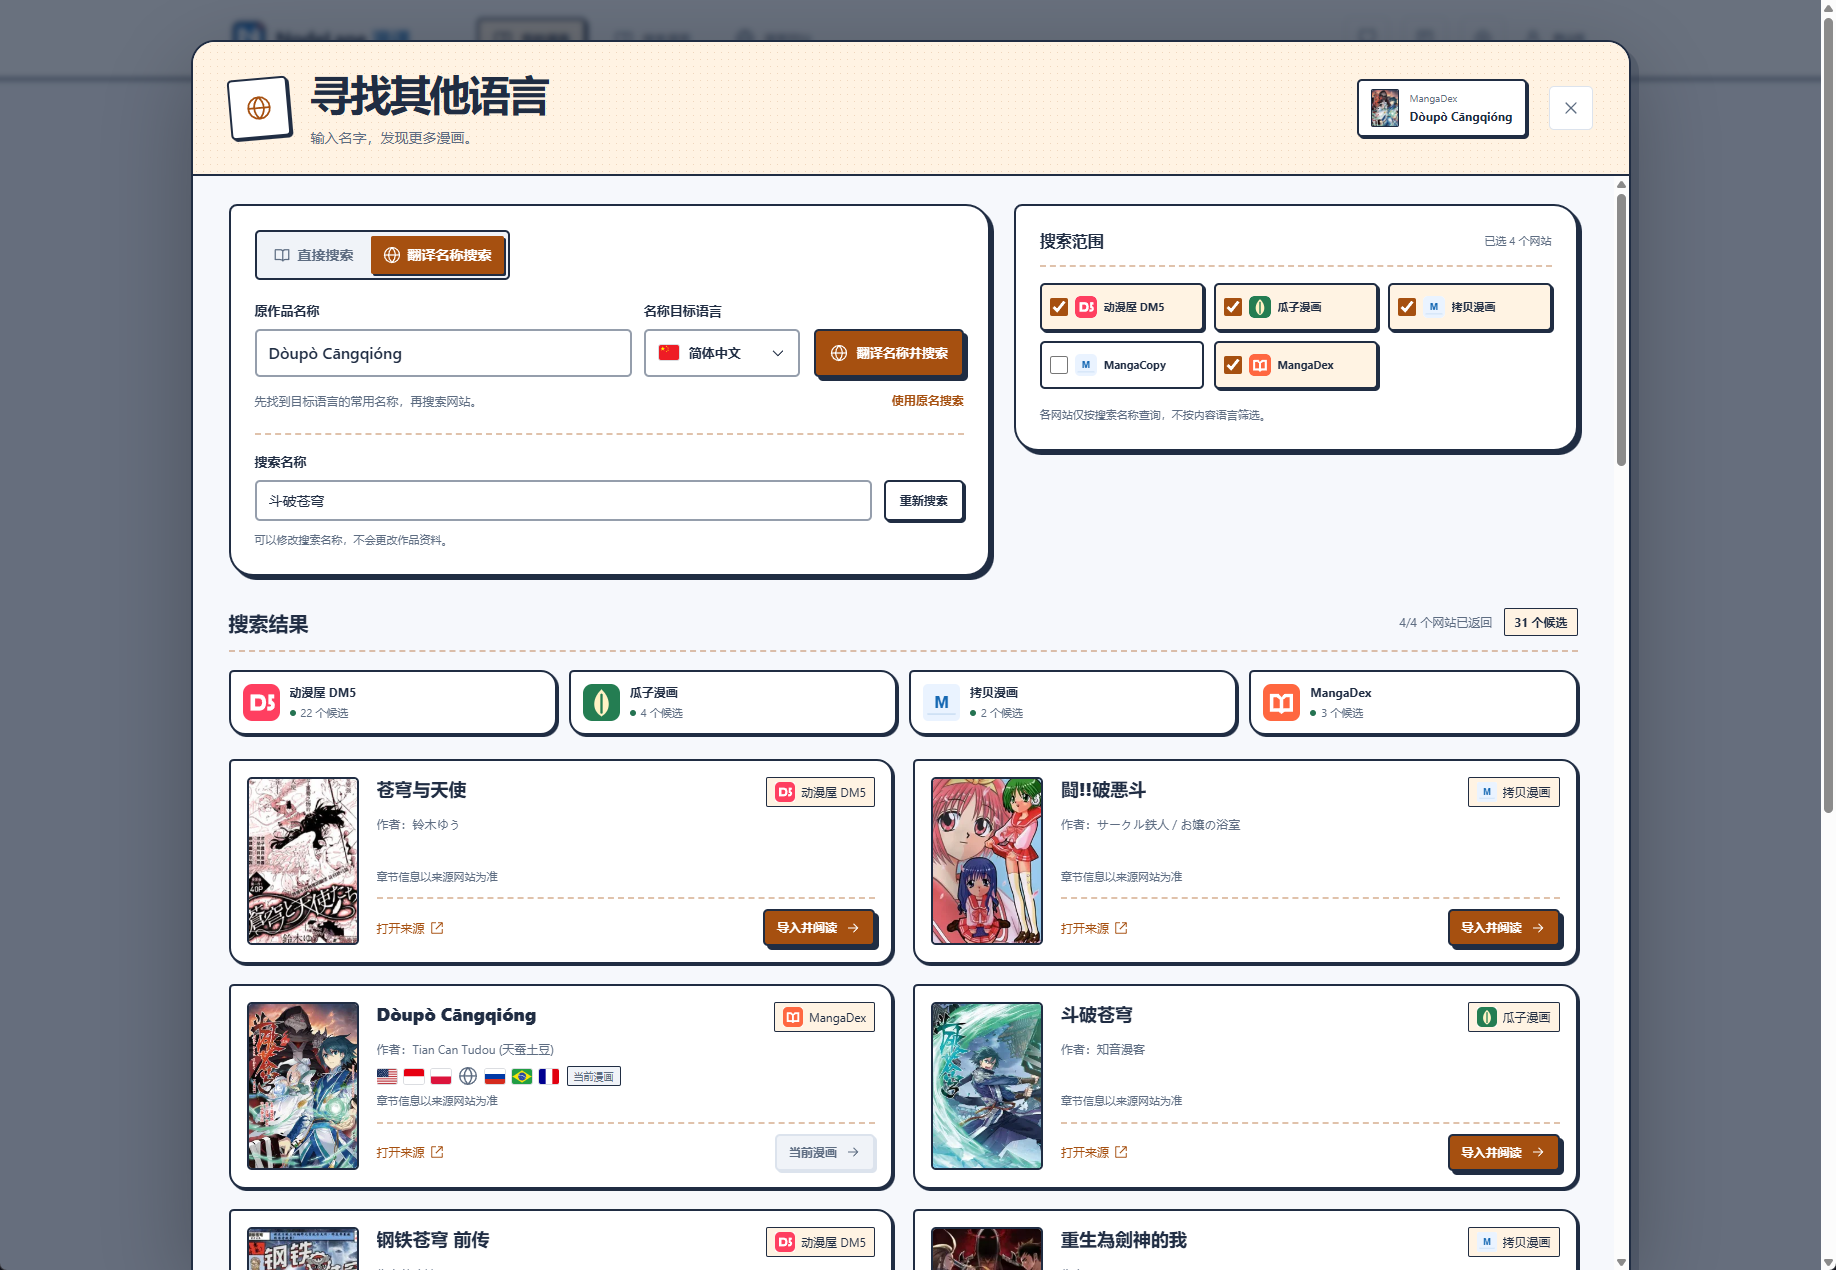
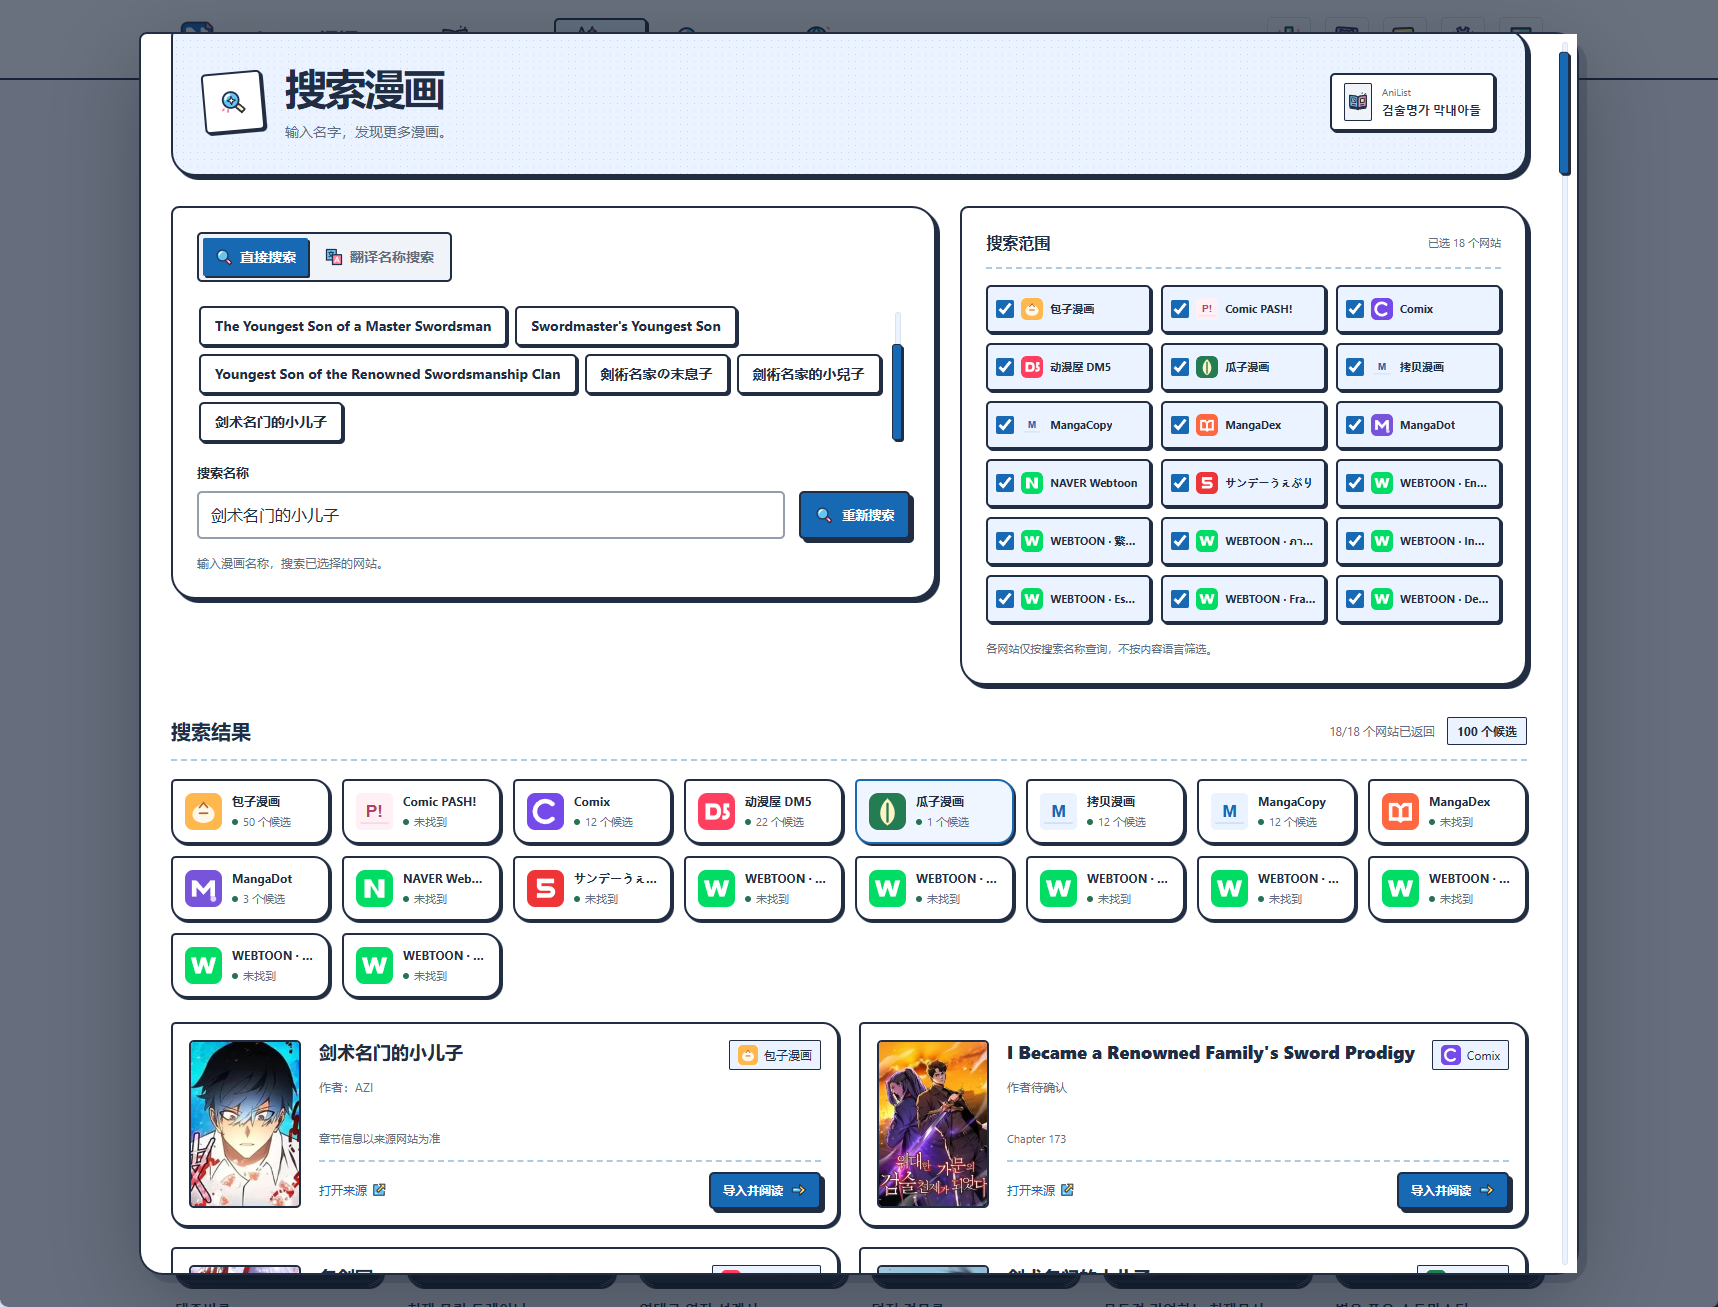
docs: refresh bilingual README with 0.6.0 screenshots

diff --git a/README_EN.md b/README_EN.md
@@ -7,7 +7,7 @@
 
 [简体中文](README.md) | **English**
 
-**Read comics in your browser, translate as you go, and compare with the original.**
+**Discover, organize, and read comics in your browser. Pick up where you left off.**
 
 [![Website and downloads](https://img.shields.io/badge/Website-Download-1769B3?style=for-the-badge)](https://comics.nodelane.net/)
 [![Developer documentation](https://img.shields.io/badge/Docs-Development-334155?style=for-the-badge)](#development)
@@ -23,16 +23,17 @@
 
 </div>
 
-A comic reader and translation extension for Chrome, Edge, and Firefox. Read local comic files, import from Google Drive or supported websites, and choose standard translation or AI redraw.
+A comic reading and library extension for Chrome, Edge, and Firefox. Bring comics from local files, Google Drive, and supported websites into your library, find your next read, and cache chapters for offline reading.
 
-Local translation is supported through a self-hosted [manga-translator-ui](https://github.com/hgmzhn/manga-translator-ui) service.
+When you need translation, enable standard translation or AI redraw and compare with the original. You can also connect to a self-hosted [manga-translator-ui](https://github.com/hgmzhn/manga-translator-ui) service.
 
 ## Features
 
 - **Import and read**: Open CBZ / ZIP, CBR / RAR, PDF, and DRM-free MOBI files, or import from Google Drive and supported websites.
-- **Translate as you read**: Use standard translation or AI redraw, switch between originals and translations, compare them side by side, and restore your reading position.
+- **Discover and search**: Browse trending, popular, top-rated, and new manga on AniList, then search supported websites by title, alternative title, or translated title.
 - **Read offline**: Cache every directory and chapter of a website comic, select multiple source languages, track progress, pause and resume, and retry missing pages.
 - **Read your way**: Choose continuous scrolling or single-page reading, reading direction, zoom, and a separate reading background.
+- **Translate when needed**: Use standard translation or AI redraw, switch between originals and translations, compare them side by side, and restore your reading position.
 - **Choose your translation service**: Use the official service or connect to a local manga-translator-ui instance. Local services do not require a NodeLane account.
 - **Personalize the interface**: Choose from 16 interface languages, six accent colors, light and dark modes, and adjustable text sizes.
 
@@ -43,31 +44,37 @@ Import, search, and manage comics, then pick up where you left off.
 ![Comic library and reading progress](docs/images/en/library.png)
 
 <details>
-<summary>View title translation and search, chapter navigation, website imports, and preferences</summary>
+<summary>View discovery, website search, offline caching, chapter navigation, and translation comparison</summary>
 
-### Find in another language
+### Discover comics
 
-Translate a comic title, search selected websites, and browse matching candidates.
+Browse charts, read synopses, check ratings and alternative titles, then look for a website where you can read the comic.
 
-![Title translation, website selection, and comic search results](docs/images/en/cross-language-search.png)
+![Comic discovery and title details](docs/images/en/discovery.png)
+
+### Search comics
+
+Search by title or alternative title, or translate the title first. Choose websites, review the results, and import a comic to start reading.
+
+![Comic titles, website selection, and search results](docs/images/en/cross-language-search.png)
+
+### Offline center
+
+Manage caching tasks for website comics, track chapter progress and storage use, and pause or resume. Fully cached chapters are available offline.
+
+![Offline caching task, chapter progress, and storage use](docs/images/en/offline-center.png)
 
 ### Reading and chapter navigation
 
-Browse chapters in the reader, with language options, page counts, and reading status.
+Browse chapters in the reader, with language options, page counts, cache status, and reading progress.
 
 ![Reader with an expanded multilingual chapter list](docs/images/en/reader-directory.png)
 
-### Comic websites
+### Compare originals and translations
 
-Paste a link from a supported website to load its chapter list and add the comic to your shelf.
+Enable translation when you need it. View the original and translated pages side by side, or switch back to the original to keep reading.
 
-![Import by link, supported websites, and the website support request form](docs/images/en/supported-sites.png)
-
-### Appearance and preferences
-
-Choose your interface language, accent color, and color scheme, and manage translation services.
-
-![Appearance, text size, and translation channel settings](docs/images/en/preferences.png)
+![Original page and Chinese translation side by side](docs/images/en/translation-comparison.png)
 
 </details>
 
@@ -96,10 +103,10 @@ Each module README lists its requirements and run commands. See the [scripts gui
 
 | Topic | Documentation |
 | --- | --- |
-| Product and reading | [Product design](docs/PRODUCT_DESIGN.md), [Single-source reading](docs/SIMPLE_COMIC_READING_DESIGN.md) |
+| Product and reading | [Product design](docs/PRODUCT_DESIGN.md), [Single-source reading](docs/SIMPLE_COMIC_READING_DESIGN.md), [Offline caching](docs/OFFLINE_CACHE_DESIGN.md) |
 | Architecture and data | [System architecture](docs/ARCHITECTURE.md), [Sources and caching](docs/COMIC_SOURCE_ARCHITECTURE.md) |
 | Translation and compute | [Translation contract](docs/READING_TRANSLATION_CONTRACT.md), [Compute protocol](docs/COMPUTE_PROTOCOL.md), [Cluster scheduling](docs/TRANSLATION_CLUSTER_DESIGN.md) |
-| Websites and interface | [Website adapters](docs/SITE_ADAPTERS.md), [Cross-language search](docs/COMIC_SEARCH_DESIGN.md), [Interface localization](docs/UI_INTERNATIONALIZATION.md), [Brand copy](docs/BRAND_AND_STORE_LISTING.md) |
+| Websites and interface | [Website adapters](docs/SITE_ADAPTERS.md), [Comic discovery](docs/DISCOVERY.md), [Cross-language search](docs/COMIC_SEARCH_DESIGN.md), [Interface localization](docs/UI_INTERNATIONALIZATION.md), [Brand copy](docs/BRAND_AND_STORE_LISTING.md) |
 | Accounts and operations | [Membership and quotas](docs/MEMBERSHIP_AND_QUOTAS.md), [Payments](docs/STRIPE_BILLING.md), [Admin console](docs/ADMIN_CONSOLE.md) |
 | Deployment and maintenance | [Deployment](docs/DEPLOYMENT.md), [Backup and recovery](docs/OPERATIONS.md), [Code standards](docs/CODE_QUALITY.md), [API contract](contracts/README.md) |
 

diff --git a/README.md b/README.md
@@ -7,7 +7,7 @@
 
 **简体中文** | [English](README_EN.md)
 
-**在浏览器里阅读漫画，边看边译，随时对照原图。**
+**在浏览器里发现、整理和阅读漫画，随时接着上次的进度看。**
 
 [![官网与下载](https://img.shields.io/badge/官网-下载插件-1769B3?style=for-the-badge)](https://comics.nodelane.net/)
 [![开发文档](https://img.shields.io/badge/文档-开始开发-334155?style=for-the-badge)](#开始开发)
@@ -23,16 +23,17 @@
 
 </div>
 
-面向 Chrome、Edge、Firefox 的漫画阅读与翻译插件，支持本地漫画文件、Google Drive 和专门适配的网站，提供常规翻译与 AI 重绘。
+面向 Chrome、Edge、Firefox 的漫画阅读与整理插件。把本地漫画、Google Drive 和已适配网站中的漫画放进书架，查找想看的作品，缓存后离线阅读。
 
-支持本地翻译，可连接本地部署的 [manga-translator-ui](https://github.com/hgmzhn/manga-translator-ui) 服务。
+需要翻译时，可开启常规翻译或 AI 重绘，随时对照原图；也可连接本地部署的 [manga-translator-ui](https://github.com/hgmzhn/manga-translator-ui) 服务。
 
 ## 产品体验
 
 - **导入即读**：支持 CBZ / ZIP、CBR / RAR、PDF、无 DRM 的 MOBI，以及 Google Drive 和已适配网站。
-- **边看边译**：常规翻译与 AI 重绘，支持原图／译图切换、并排对照与阅读位置恢复。
+- **发现与搜索**：浏览 AniList 趋势、人气、高分和新作，使用作品名称、别名或翻译后的名称搜索已适配网站。
 - **整本离线**：缓存网站漫画的全部目录与章节，多选来源语言，查看进度、暂停继续及补齐失败页。
 - **按习惯阅读**：连续阅读、单页翻页、阅读方向、缩放与独立阅读背景。
+- **按需翻译**：常规翻译与 AI 重绘，支持原图／译图切换、并排对照与阅读位置恢复。
 - **自选翻译渠道**：使用官方服务或连接本地 manga-translator-ui；本地渠道无需 NodeLane 账号。
 - **界面随你调整**：16 种界面语言、六种主题色、亮暗外观与文字大小。
 
@@ -43,31 +44,37 @@
 ![漫画书架与阅读进度](docs/images/library.png)
 
 <details>
-<summary>查看跨语言搜索、阅读目录、网站导入与外观设置</summary>
+<summary>查看漫画发现、网站搜索、离线缓存、阅读目录与翻译对照</summary>
 
-### 寻找其他语言
+### 发现漫画
 
-翻译作品名称，在选定的网站中搜索并查看候选结果。
+浏览榜单，查看简介、评分与别名，再查找可阅读的网站来源。
 
-![翻译名称搜索、网站选择与候选漫画](docs/images/cross-language-search.png)
+![漫画发现与作品详情](docs/images/discovery.png)
+
+### 搜索漫画
+
+按作品名称或别名搜索，也可先翻译名称；选择网站、查看候选结果，确认后导入阅读。
+
+![漫画名称、网站选择与搜索结果](docs/images/cross-language-search.png)
+
+### 离线中心
+
+管理网站漫画的缓存任务，查看章节进度与空间占用，随时暂停或继续。缓存完成的章节可离线阅读。
+
+![离线缓存任务、章节进度与空间占用](docs/images/offline-center.png)
 
 ### 阅读与目录
 
-在阅读器中浏览章节目录，查看语言选项、页数与阅读状态。
+在阅读器中浏览章节目录，查看语言选项、页数、缓存和阅读状态。
 
 ![阅读器与展开的多语言章节目录](docs/images/reader-directory.png)
 
-### 漫画网站
+### 原图与译图对照
 
-粘贴已适配网站链接，读取目录并添加到书架。
+需要翻译时再开启，可并排查看原图和译图，也可切回原图继续阅读。
 
-![网站链接导入、已适配网站与适配申请入口](docs/images/supported-sites.png)
-
-### 外观与偏好
-
-选择界面语言、主题色与亮暗外观，管理翻译渠道。
-
-![外观主题、文字大小与翻译渠道设置](docs/images/preferences.png)
+![原图与中文译图并排对照](docs/images/translation-comparison.png)
 
 </details>
 
